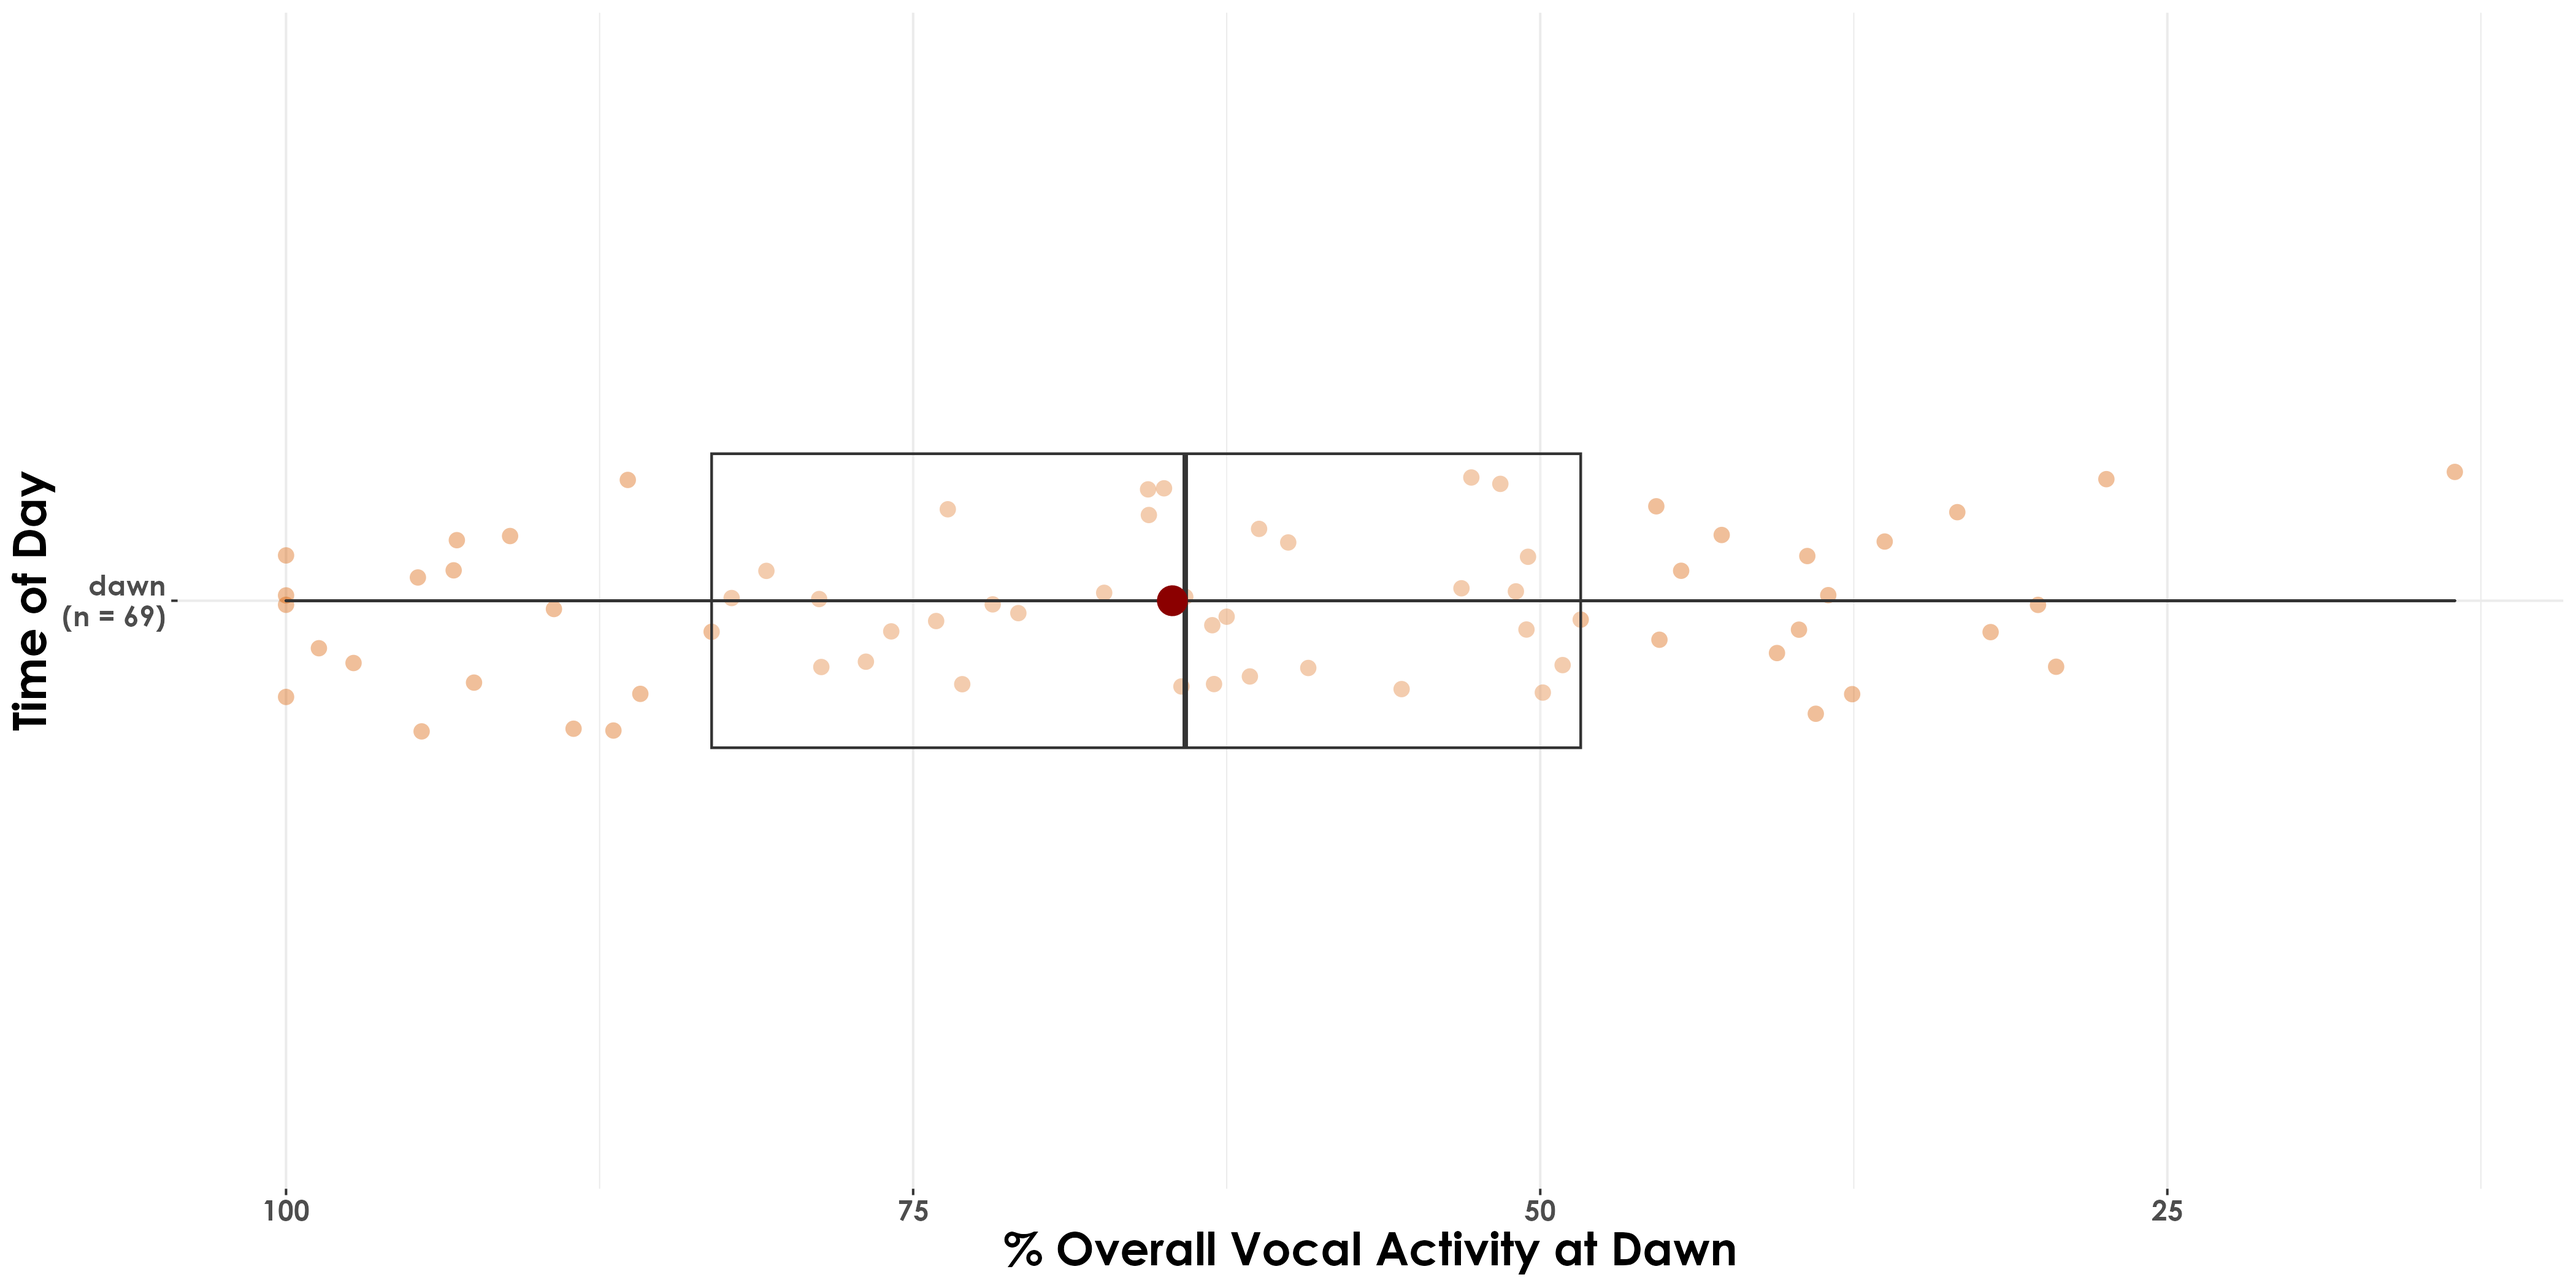
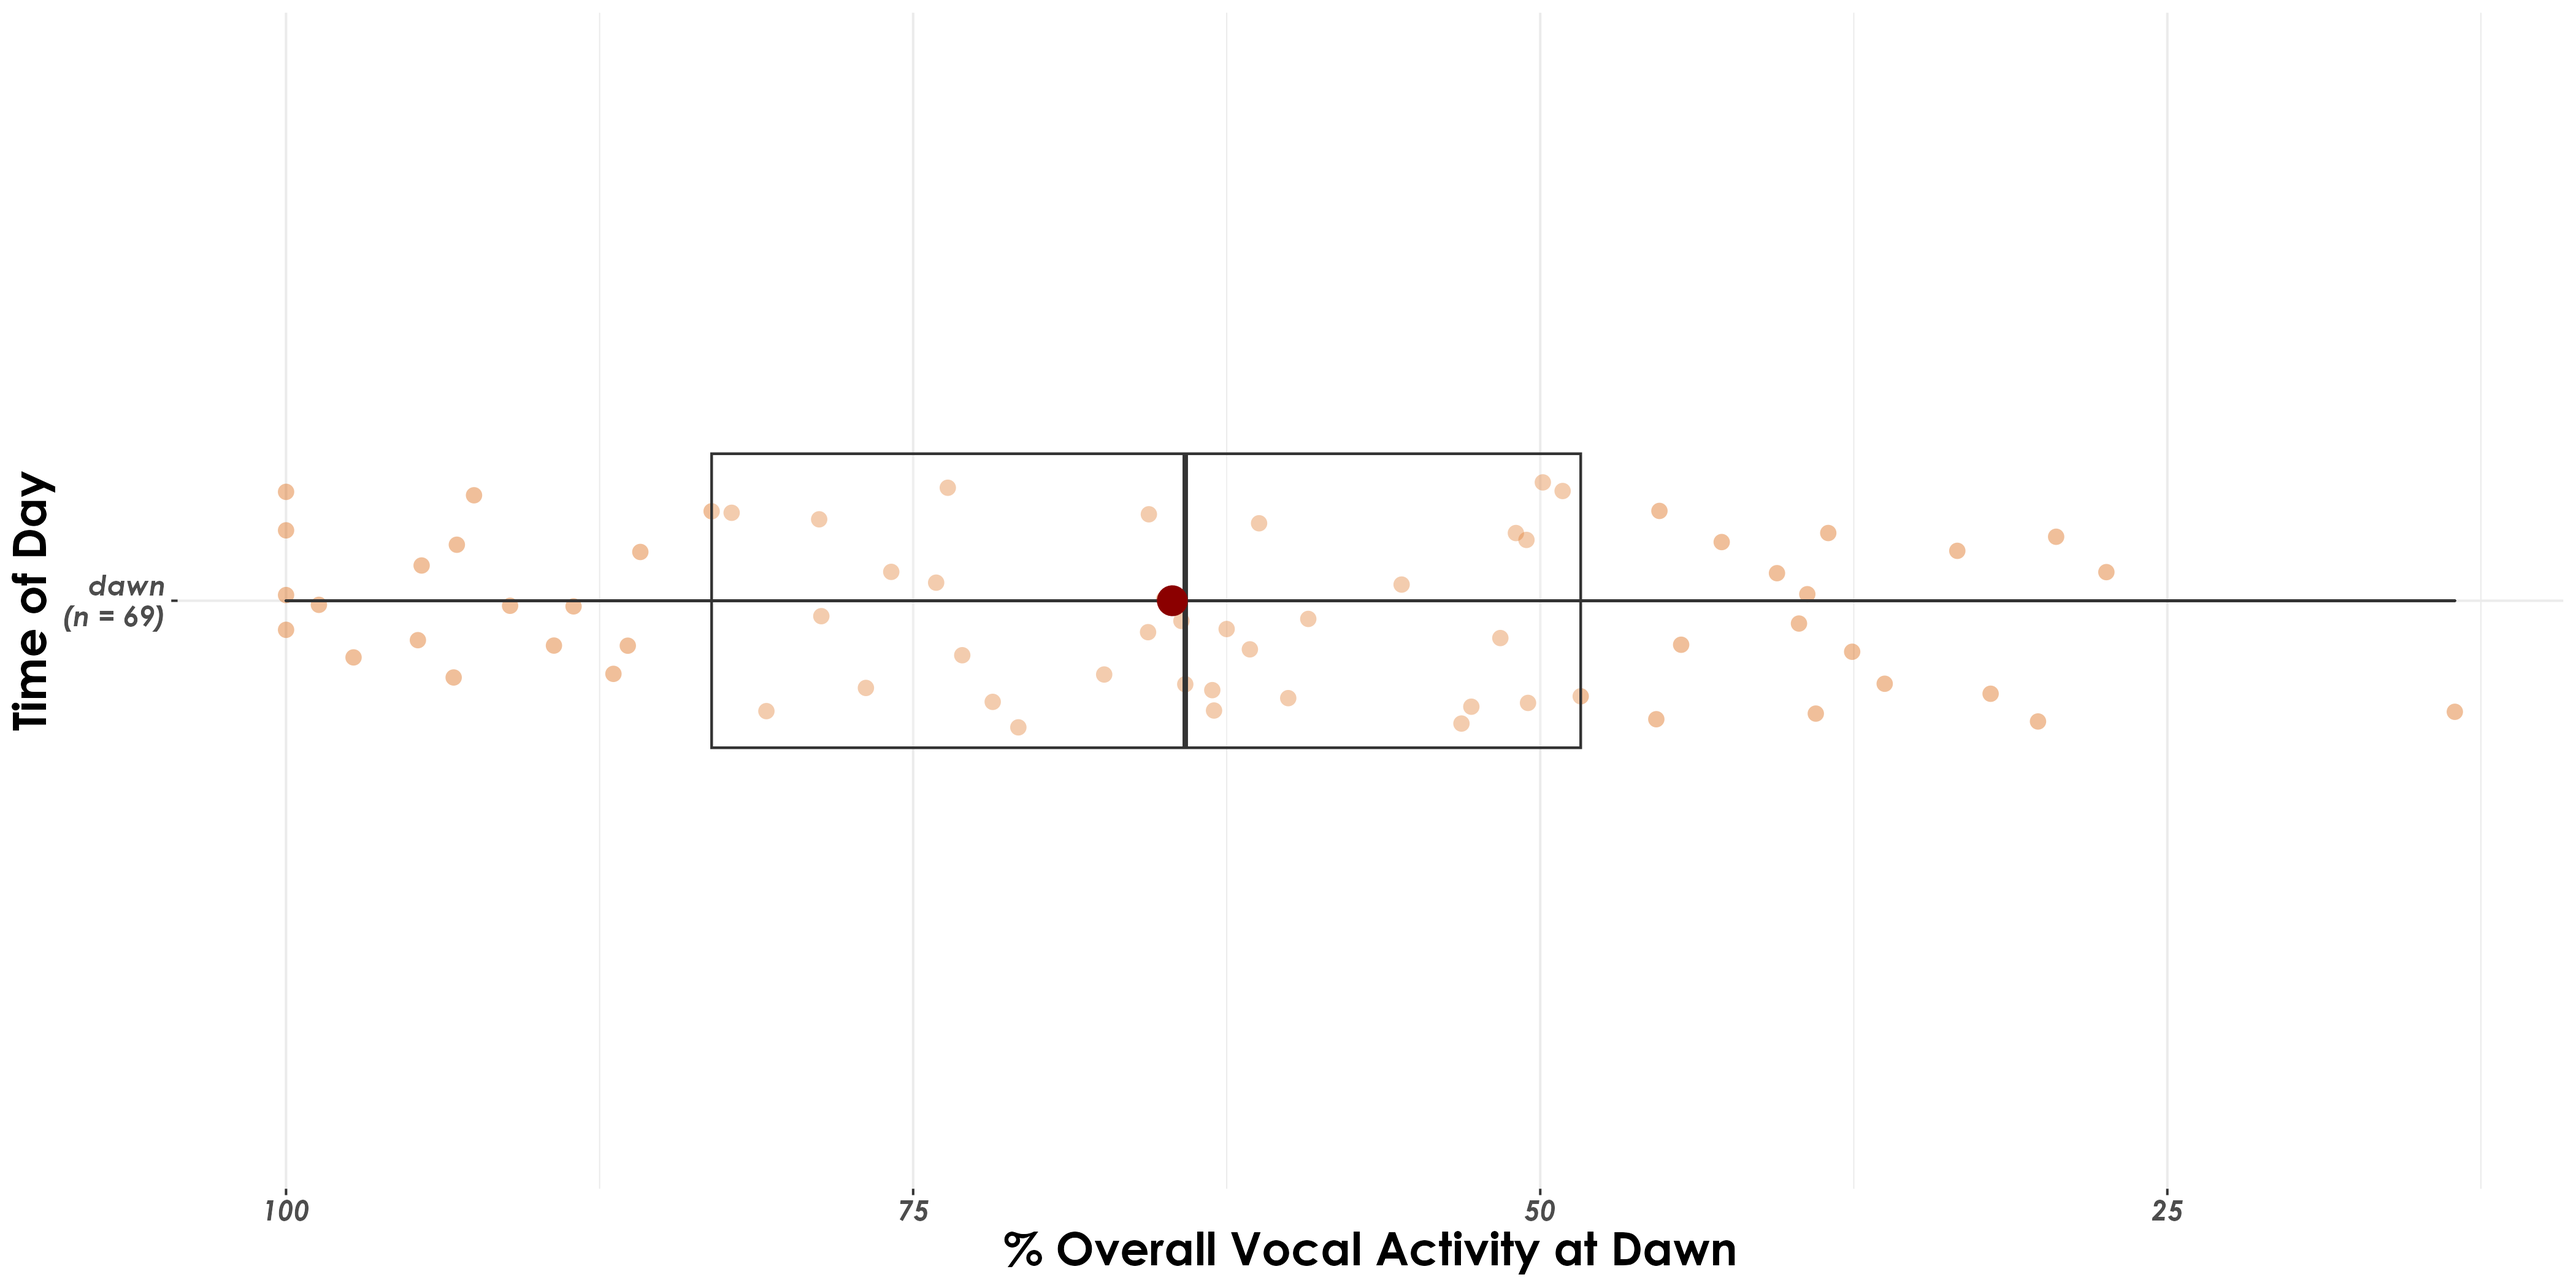
deployment

diff --git a/docs/vocal-activity.html b/docs/vocal-activity.html
@@ -357,13 +357,13 @@ code span.wa { color: #60a0b0; font-weight: bold; font-style: italic; } /* Warni
 <span id="cb10-71"><a href="vocal-activity.html#cb10-71" tabindex="-1"></a>  <span class="at">y =</span> plot_percent,</span>
 <span id="cb10-72"><a href="vocal-activity.html#cb10-72" tabindex="-1"></a>  <span class="at">fill =</span> time_of_day</span>
 <span id="cb10-73"><a href="vocal-activity.html#cb10-73" tabindex="-1"></a>)) <span class="sc">+</span></span>
-<span id="cb10-74"><a href="vocal-activity.html#cb10-74" tabindex="-1"></a>  <span class="fu">geom_text</span>(<span class="fu">aes</span>(<span class="at">label =</span> <span class="fu">signif</span>(<span class="fu">abs</span>(plot_percent), <span class="dv">3</span>)),</span>
+<span id="cb10-74"><a href="vocal-activity.html#cb10-74" tabindex="-1"></a>  <span class="fu">geom_text</span>(<span class="fu">aes</span>(<span class="at">label =</span> <span class="fu">sprintf</span>(<span class="st">&quot;%.1f&quot;</span>, <span class="fu">abs</span>(plot_percent))),</span>
 <span id="cb10-75"><a href="vocal-activity.html#cb10-75" tabindex="-1"></a>    <span class="at">hjust =</span> <span class="fu">ifelse</span>(vocal_act<span class="sc">$</span>plot_percent <span class="sc">&gt;=</span> <span class="dv">0</span>, <span class="dv">0</span>, <span class="dv">1</span>),</span>
 <span id="cb10-76"><a href="vocal-activity.html#cb10-76" tabindex="-1"></a>    <span class="at">size =</span> <span class="dv">3</span></span>
 <span id="cb10-77"><a href="vocal-activity.html#cb10-77" tabindex="-1"></a>  ) <span class="sc">+</span></span>
 <span id="cb10-78"><a href="vocal-activity.html#cb10-78" tabindex="-1"></a>  <span class="fu">geom_bar</span>(<span class="at">stat =</span> <span class="st">&quot;identity&quot;</span>) <span class="sc">+</span></span>
 <span id="cb10-79"><a href="vocal-activity.html#cb10-79" tabindex="-1"></a>  <span class="fu">scale_fill_manual</span>(<span class="at">values =</span> <span class="fu">c</span>(<span class="st">&quot;#d95f02&quot;</span>, <span class="st">&quot;#1b9e77&quot;</span>)) <span class="sc">+</span></span>
-<span id="cb10-80"><a href="vocal-activity.html#cb10-80" tabindex="-1"></a>  <span class="fu">scale_y_continuous</span>(<span class="at">labels =</span> abs) <span class="sc">+</span></span>
+<span id="cb10-80"><a href="vocal-activity.html#cb10-80" tabindex="-1"></a>  <span class="fu">scale_y_continuous</span>(<span class="at">labels =</span> <span class="cf">function</span>(x) <span class="fu">sprintf</span>(<span class="st">&quot;%.1f&quot;</span>, <span class="fu">abs</span>(x)))  <span class="sc">+</span></span>
 <span id="cb10-81"><a href="vocal-activity.html#cb10-81" tabindex="-1"></a>  <span class="fu">coord_flip</span>() <span class="sc">+</span></span>
 <span id="cb10-82"><a href="vocal-activity.html#cb10-82" tabindex="-1"></a>  <span class="fu">labs</span>(</span>
 <span id="cb10-83"><a href="vocal-activity.html#cb10-83" tabindex="-1"></a>    <span class="at">y =</span> <span class="st">&quot;% Vocal Activity&quot;</span>,</span>
@@ -407,7 +407,7 @@ code span.wa { color: #60a0b0; font-weight: bold; font-style: italic; } /* Warni
 <span id="cb11-8"><a href="vocal-activity.html#cb11-8" tabindex="-1"></a>    <span class="at">pairwise.display =</span> <span class="st">&quot;significant&quot;</span>,</span>
 <span id="cb11-9"><a href="vocal-activity.html#cb11-9" tabindex="-1"></a>    <span class="at">violin.args =</span> <span class="fu">list</span>(<span class="at">width =</span> <span class="dv">0</span>),</span>
 <span id="cb11-10"><a href="vocal-activity.html#cb11-10" tabindex="-1"></a>    <span class="at">ggplot.component =</span> <span class="fu">list</span>(<span class="fu">theme</span>(</span>
-<span id="cb11-11"><a href="vocal-activity.html#cb11-11" tabindex="-1"></a>      <span class="at">text =</span> <span class="fu">element_text</span>(<span class="at">family =</span> <span class="st">&quot;Century Gothic&quot;</span>, <span class="at">size =</span> <span class="dv">14</span>, <span class="at">face =</span> <span class="st">&quot;bold&quot;</span>), <span class="at">plot.title =</span> <span class="fu">element_text</span>(</span>
+<span id="cb11-11"><a href="vocal-activity.html#cb11-11" tabindex="-1"></a>      <span class="at">text =</span> <span class="fu">element_text</span>(<span class="at">family =</span> <span class="st">&quot;Century Gothic&quot;</span>, <span class="at">size =</span> <span class="dv">14</span>, <span class="at">face =</span> <span class="st">&quot;bold.italic&quot;</span>), <span class="at">plot.title =</span> <span class="fu">element_text</span>(</span>
 <span id="cb11-12"><a href="vocal-activity.html#cb11-12" tabindex="-1"></a>        <span class="at">family =</span> <span class="st">&quot;Century Gothic&quot;</span>,</span>
 <span id="cb11-13"><a href="vocal-activity.html#cb11-13" tabindex="-1"></a>        <span class="at">size =</span> <span class="dv">15</span>, <span class="at">face =</span> <span class="st">&quot;bold&quot;</span></span>
 <span id="cb11-14"><a href="vocal-activity.html#cb11-14" tabindex="-1"></a>      ),</span>

diff --git a/docs/index.html b/docs/index.html
@@ -253,7 +253,7 @@ code span.wa { color: #60a0b0; font-weight: bold; font-style: italic; } /* Warni
 <p class="author"><em>Pavithra Sundar</em></p>
 <p class="author"><em>Meghana P Srivathsa</em></p>
 <p class="author"><em>Laurel Symes</em></p>
-<p class="date"><em>Last compiled on 10 December, 2024</em></p>
+<p class="date"><em>Last compiled on 20 May, 2025</em></p>
 </div>
 <div id="introduction" class="section level1 hasAnchor" number="1">
 <h1><span class="header-section-number">Section 1</span> Introduction<a href="index.html#introduction" class="anchor-section" aria-label="Anchor link to header"></a></h1>
